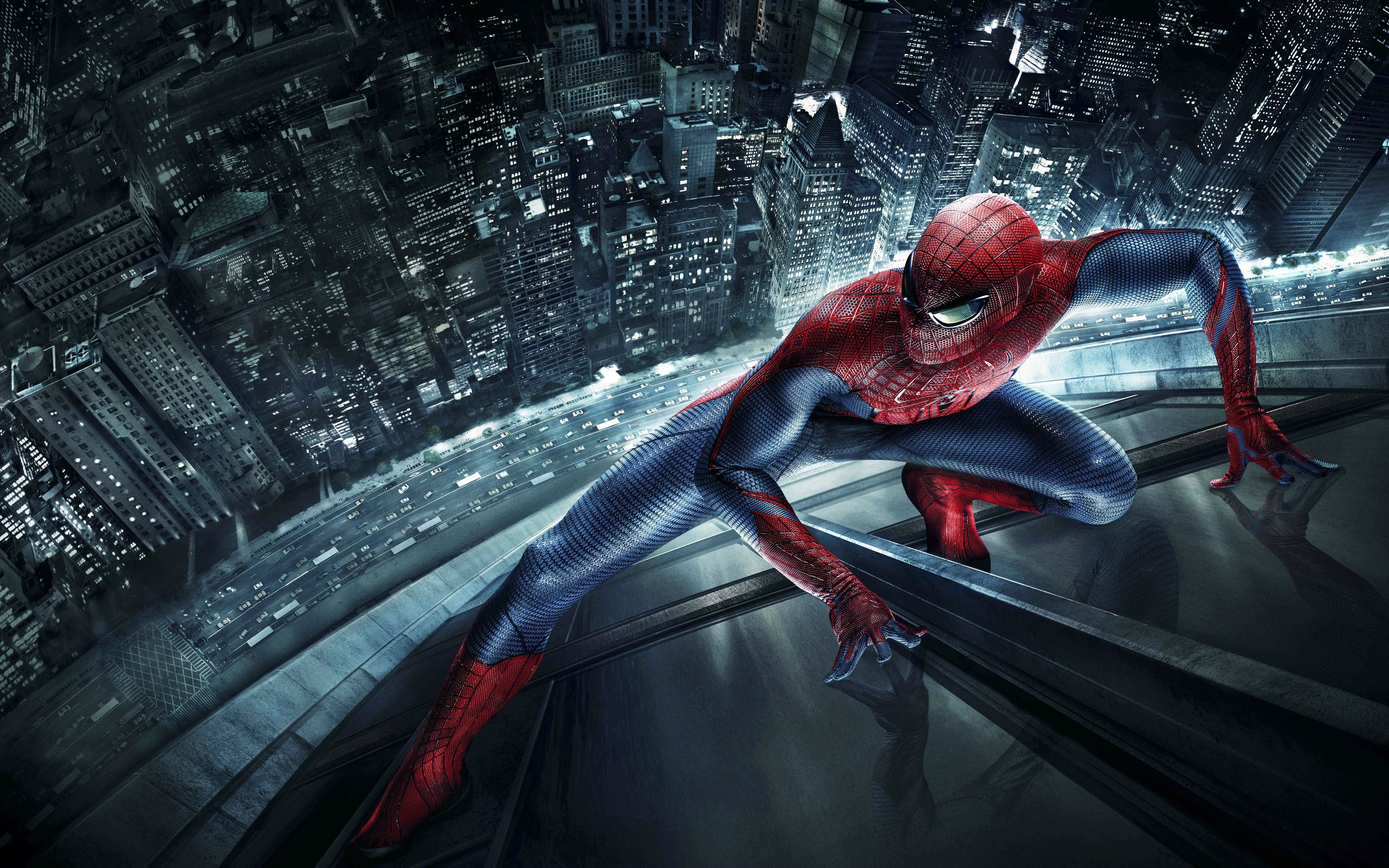
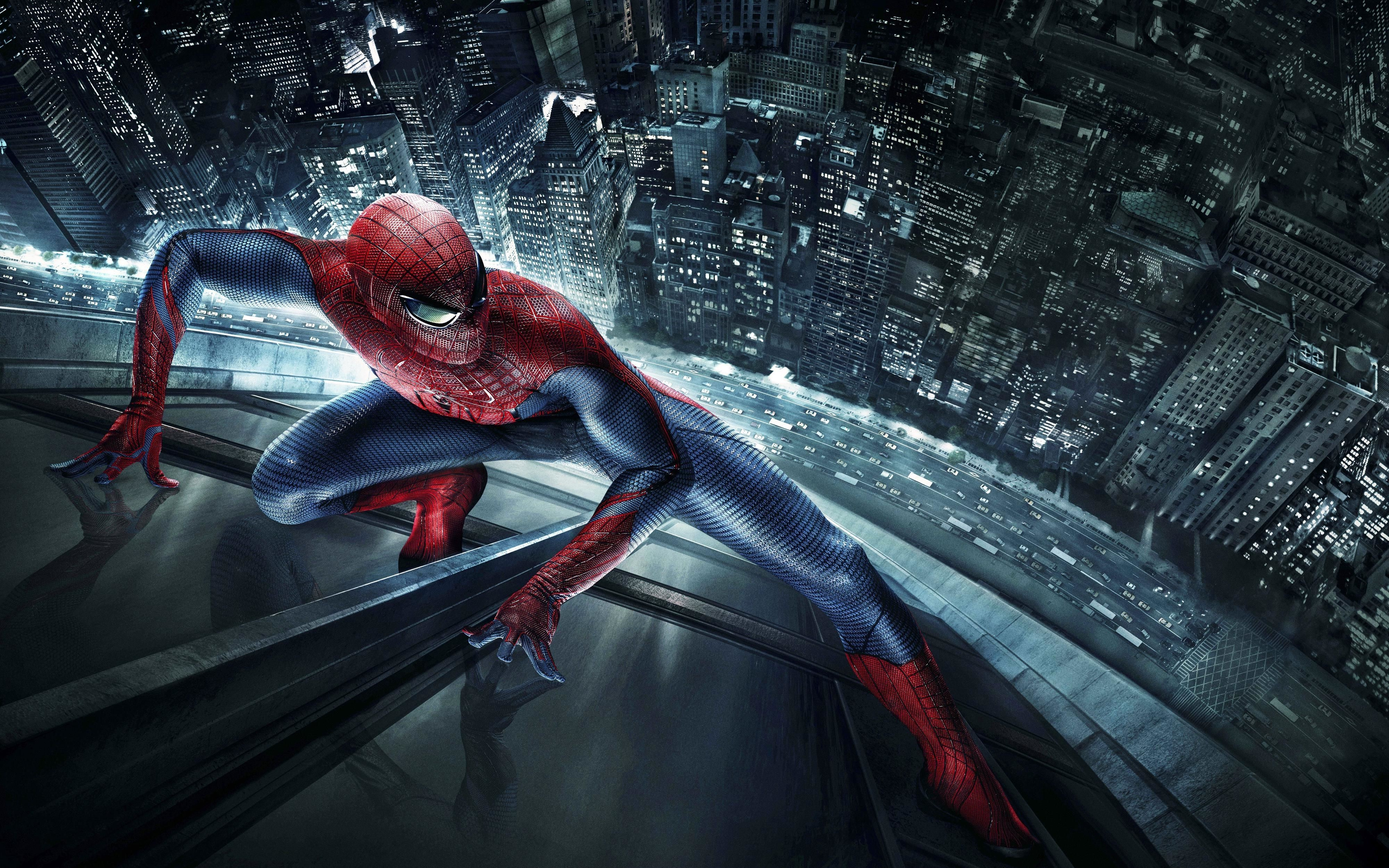
Some Fixes

diff --git a/capstone-project/src/Components/HeroVillianSection/index.jsx b/capstone-project/src/Components/HeroVillianSection/index.jsx
@@ -41,52 +41,60 @@ import Darkside_BG from "../../assets/images/FanPagePictures/HeroAndVillan/Darks
 export default function HeroVillianSection() {
     const charachters = [
         {
+            id: "Thanos",
             img: Thanos,
             name: Thanos_Logo,
             BG: Thanos_BG,
-            description: ""
+            description: "Thanos is a powerful and formidable villain, known for his immense strength and his quest to collect the Infinity Stones. He is driven by his belief that wiping out half of all life in the universe will bring balance and peace. Thanos is not your typical one dimensional villain, he is a complex character with a tragic backstory and a deep conviction in his cause. His presence in the movies brings high stakes and tension to the Avengers series, making for an unforgettable cinematic experience. If you're a fan of epic battles, masterful storytelling, and mind-blowing special effects, you won't want to miss a single film featuring Thanos."
         },
         {
+            id: "IronMan",
             img: IronMan,
             name: IronMan_Logo,
             BG: IronMan_BG,
-            description: ""
+            description: "Iron Man is a billionaire genius inventor and superhero who uses his high-tech suit of armor to save the world. He is a charismatic, witty and charming character, who is not afraid to speak his mind and has a strong sense of humor. The Iron Man movies follow Tony Stark's journey from a self-centered businessman to a true hero who is willing to sacrifice everything to protect the world. The films are filled with thrilling action, cutting-edge technology and a great deal of heart. The special effects in Iron Man movies are some of the best in the industry, making for an exciting visual experience. If you're looking for a mix of humor, action and heart-pumping adventure, Iron Man movies are definitely worth a watch."
         },
         {
+            id: "Joker",
             img: Joker,
             name: Joker_Logo,
             BG: Joker_BG,
-            description: ""
+            description: "Joker is a psychologically complex and deeply disturbing villain, whose descent into madness and criminality is a central focus of the movie. The Joker is a unique and fascinating character that will keep you on the edge of your seat. The movie delves into the origins of the character and explores his psyche, his motivations and his relationship with Gotham City. The Joker movie is a dark, intense and thought-provoking film that tells a powerful story of a man driven to the brink of insanity. The acting is top-notch, particularly the lead performance by Joaquin Phoenix, who delivers a truly captivating portrayal of the iconic villain. If you're a fan of gritty, realistic, and thought-provoking storytelling, The Joker movie is a must-watch."
         },
         {
+            id: "Batman",
             img: Batman,
             name: Batman_Logo,
             BG: Batman_BG,
-            description: ""
+            description: "Batman is a iconic superhero known for his intelligence, physical prowess, and use of high-tech gadgets. He is one of the most popular and enduring characters in comics and has been adapted to various forms of media. The Batman movie is a darker, grittier and more grounded take on the character, which explores the early days of Bruce Wayne becoming the Dark Knight. This film focus on the detective side of Batman, the audience will see him solving a series of murders that leads to a larger conspiracy in Gotham City. The movie also promises an exciting new take on the iconic rogues gallery of Batman's villains, and the introduction of new ones. The Batman is an action-packed, thrilling and emotionally engaging film that will leave audiences on the edge of their seats. If you're a fan of superhero movies, crime dramas, and gritty, realistic storytelling, The Batman movie is a must-watch."
         },
         {
+            id: "Venom",
             img: Venom,
             name: Venom_Logo,
             BG: Venom_BG,
-            description: ""
+            description: "Venom is a powerful and terrifying symbiote, known for its ability to bond with a host and grant them superhuman strength and abilities. The Venom movie follows journalist Eddie Brock as he becomes the host of the Venom symbiote and struggles to control its monstrous impulses while also using its power to fight crime. This film offers a unique take on the Venom character, blending elements of horror, action, and comedy, making it a thrilling and entertaining watch. The special effects in the movie are top-notch, bringing the Venom symbiote to life in a spectacular way. The lead performance by Tom Hardy as Eddie Brock/Venom is highly praised, adding depth and complexity to the character. If you're a fan of superhero movies, horror, and action-packed entertainment, Venom is a must-see."
         },
         {
+            id: "SpiderMan",
             img: SpiderMan,
             name: SpiderMan_Logo,
             BG: SpiderMan_BG,
-            description: ""
+            description: "Spider-Man is a beloved superhero known for his superhuman strength and spider-like abilities. He uses his powers to protect the citizens of New York City from dangerous criminals and villains. With his wits and agility, he fights to keep the city safe while also navigating the challenges of being a teenage high school student. Spider-Man's movies are filled with action, humor, and heart, making them a thrilling and entertaining watch for both fans of the comics and newcomers to the franchise. Don't miss your chance to see the web-slinging hero in action!"
         },
         {
+            id: "Homelender",
             img: Homelender,
             name: Homelender_Logo,
             BG: Homelender_BG,
-            description: ""
+            description: "Homelander is the leader of The Seven, a group of powerful and famous superheroes in the TV series The Boys. He is often depicted as a charismatic and handsome figure, but beneath the surface, he is a cruel and psychopathic individual. Homelander's character arc in the series is a complex and disturbing one, as he struggles with his own power, his need for validation, and his inability to empathize with others. The Boys is a satirical and dark take on the superhero genre, and Homelander's character is a major part of that. He serves as a powerful reminder of the dangers of unchecked power and the need for accountability. The series is filled with action, dark humor, and character-driven storytelling that will keep you on the edge of your seat. If you're a fan of superhero shows, dark comedy and thought-provoking storytelling, The Boys is a must-watch."
         },
         {
+            id: "Darkside",
             img: Darkside,
             name: Darkside_Logo,
             BG: Darkside_BG,
-            description: ""
+            description: "Darkside is a powerful and mysterious villain in the Zack Snyder's Justice League. He is a force of evil who threatens the safety and survival of Earth. The Zack Snyder's Justice League is a retelling of the Justice League story, with a more darker and serious tone. Darkside serves as the main antagonist of the film, and his presence raises the stakes for the Justice League members as they work together to stop him from destroying the planet. The film is filled with stunning visual effects and intense action sequences that will leave you breathless. With a strong ensemble cast, and a new villain to introduce, Zack Snyder's Justice League is sure to be a thrilling and epic watch. If you're a fan of superhero movies, epic battles, and a darker take on the DC universe, Zack Snyder's Justice League is a must-watch."
         },
     ];
     const settings = {
@@ -98,7 +106,7 @@ export default function HeroVillianSection() {
         slidesToShow: 1,
         slidesToScroll: 1,
         initialSlide: 0,
-        autoplay: true,
+        // autoplay: true,
         speed: 2000,
         autoplaySpeed: 5000,
         cssEase: "linear",
@@ -131,20 +139,26 @@ export default function HeroVillianSection() {
         ]
     };
     return (
-        <Slider {...settings}>
-            {charachters.map((elem, index) => {
-                return (
-                    <div className="HeroVillianSection" key={index} style={{backgroundImage: `url(${elem.BG})`}}>
-                        <div>
-                            <img src={elem.name} alt={elem.name} />
-                            <p>{elem.description}</p>
+        <div className="HeroVillianSection">
+            <div>
+                <Slider {...settings}>
+                {charachters.map((elem, index) => {
+                    return (
+                        <div key={index}>
+                            <div className="CharacterSection" style={{backgroundImage: `url(${elem.BG})`}} id={elem.id}>
+                                <div className="leftCol">
+                                    <img src={elem.name} alt={elem.name} className="MovieTitlePic"/>
+                                    <p>{elem.description}</p>
+                                </div>
+                                <div className="rightCol">
+                                    <img src={elem.img} alt={elem.img} className="HeroVillianCharachter"/>
+                                </div>
+                            </div>
                         </div>
-                        <div>
-                            <img src={elem.img} alt={elem.img} />
-                        </div>
-                    </div>
-                );
-            })}
-        </Slider>
+                    );
+                })}
+                </Slider>
+            </div>
+        </div>
     );
 }

diff --git a/capstone-project/src/Components/HeroVillianSection/style.css b/capstone-project/src/Components/HeroVillianSection/style.css
@@ -1,0 +1,120 @@
+.HeroVillianSection {
+    position: relative;
+    max-width: 100%;
+    margin: 0 auto;
+    margin-bottom: 100px;
+    margin-top: 10em;
+}
+
+.HeroVillianSection>div {
+    position: relative;
+    margin-left: auto;
+    margin-right: auto;
+    max-width: 1200px;
+}
+
+.HeroVillianSection .slick-list {
+    padding: 0 !important;
+    height: 600px;
+    overflow: visible;
+    overflow-x: clip;
+}
+
+.HeroVillianSection .slick-slide {
+    transition: width 2s ease;
+}
+
+.HeroVillianSection .slick-slide>div {
+    margin: 0;
+}
+
+.HeroVillianSection .slick-current {
+    width: 1200px !important;
+}
+
+.CharacterSection {
+    position: relative;
+    display: flex;
+    width: 1200px;
+    height: 600px;
+    background-position: center;
+    background-repeat: no-repeat;
+    background-size: cover;
+    background-attachment: fixed;
+}
+
+.CharacterSection::before {
+    content: '';
+    display: block;
+    position: absolute;
+    width: 100%;
+    height: 100%;
+    top: 0;
+    left: 0;
+    bottom: 0;
+    right: 0;
+    backdrop-filter: brightness(30%) blur(5px);
+}
+
+.HeroVillianSection .leftCol {
+    position: relative;
+    width: 60%;
+}
+
+.CharacterSection p {
+    position: absolute;
+    top: 0;
+    left: 0;
+    padding-bottom: 50px;
+    color: #ffffff;
+    font-size: 17px;
+    line-height: 25px;
+    letter-spacing: 2px;
+}
+
+.HeroVillianSection .rightCol {
+    position: relative;
+    width: 40%;
+}
+
+.MovieTitlePic {
+    position: absolute;
+    top: 0;
+    left: 50px;
+    max-width: 100%;
+    width: 400px;
+    height: auto;
+}
+
+.HeroVillianCharachter {
+    position: absolute;
+    bottom: 0;
+    right: 0;
+    width: 100%;
+    height: auto;
+    filter: drop-shadow(5px 0px 10px #ffffff91);
+}
+
+#Thanos .MovieTitlePic {
+    top: 20px;
+}
+
+#Thanos .HeroVillianCharachter {
+    width: 600px;
+    right: 10px;
+}
+
+#Thanos p {
+    left: 80px;
+    top: 210px;
+    padding-right: 7em;
+}
+
+#SpiderMan .MovieTitlePic {
+    width: 500px;
+}
+
+#SpiderMan .HeroVillianCharachter {
+    width: 550px;
+    bottom: 40px;
+}

diff --git a/capstone-project/src/Components/Footer/style.css b/capstone-project/src/Components/Footer/style.css
@@ -1,7 +1,9 @@
 .footer {
-    height: auto;
+    height: 400px;
     position: relative;
     z-index: 5;
+    bottom: 0;
+    margin-bottom: 0;
 }
 
 .footer::before {
@@ -24,8 +26,9 @@
 }
 
 .top {
+    position: absolute;
     display: flex;
-    padding-top: 10px;
+    padding-top: 50px;
     padding-left: 4%;
     padding-right: 7%;
     width: 100%;

diff --git a/capstone-project/src/Components/Footer/index.jsx b/capstone-project/src/Components/Footer/index.jsx
@@ -9,7 +9,7 @@ import { ROUTE_NAMES } from "../../Routes";
 
 export default function Footer() {
     const [currentYear] = useState(new Date().getFullYear());
-    const[showButton, setShowButton] = useState("");
+    const [showButton, setShowButton] = useState("");
 
     useEffect(() => {
         const handleScrollButtonVisibility = () => {
